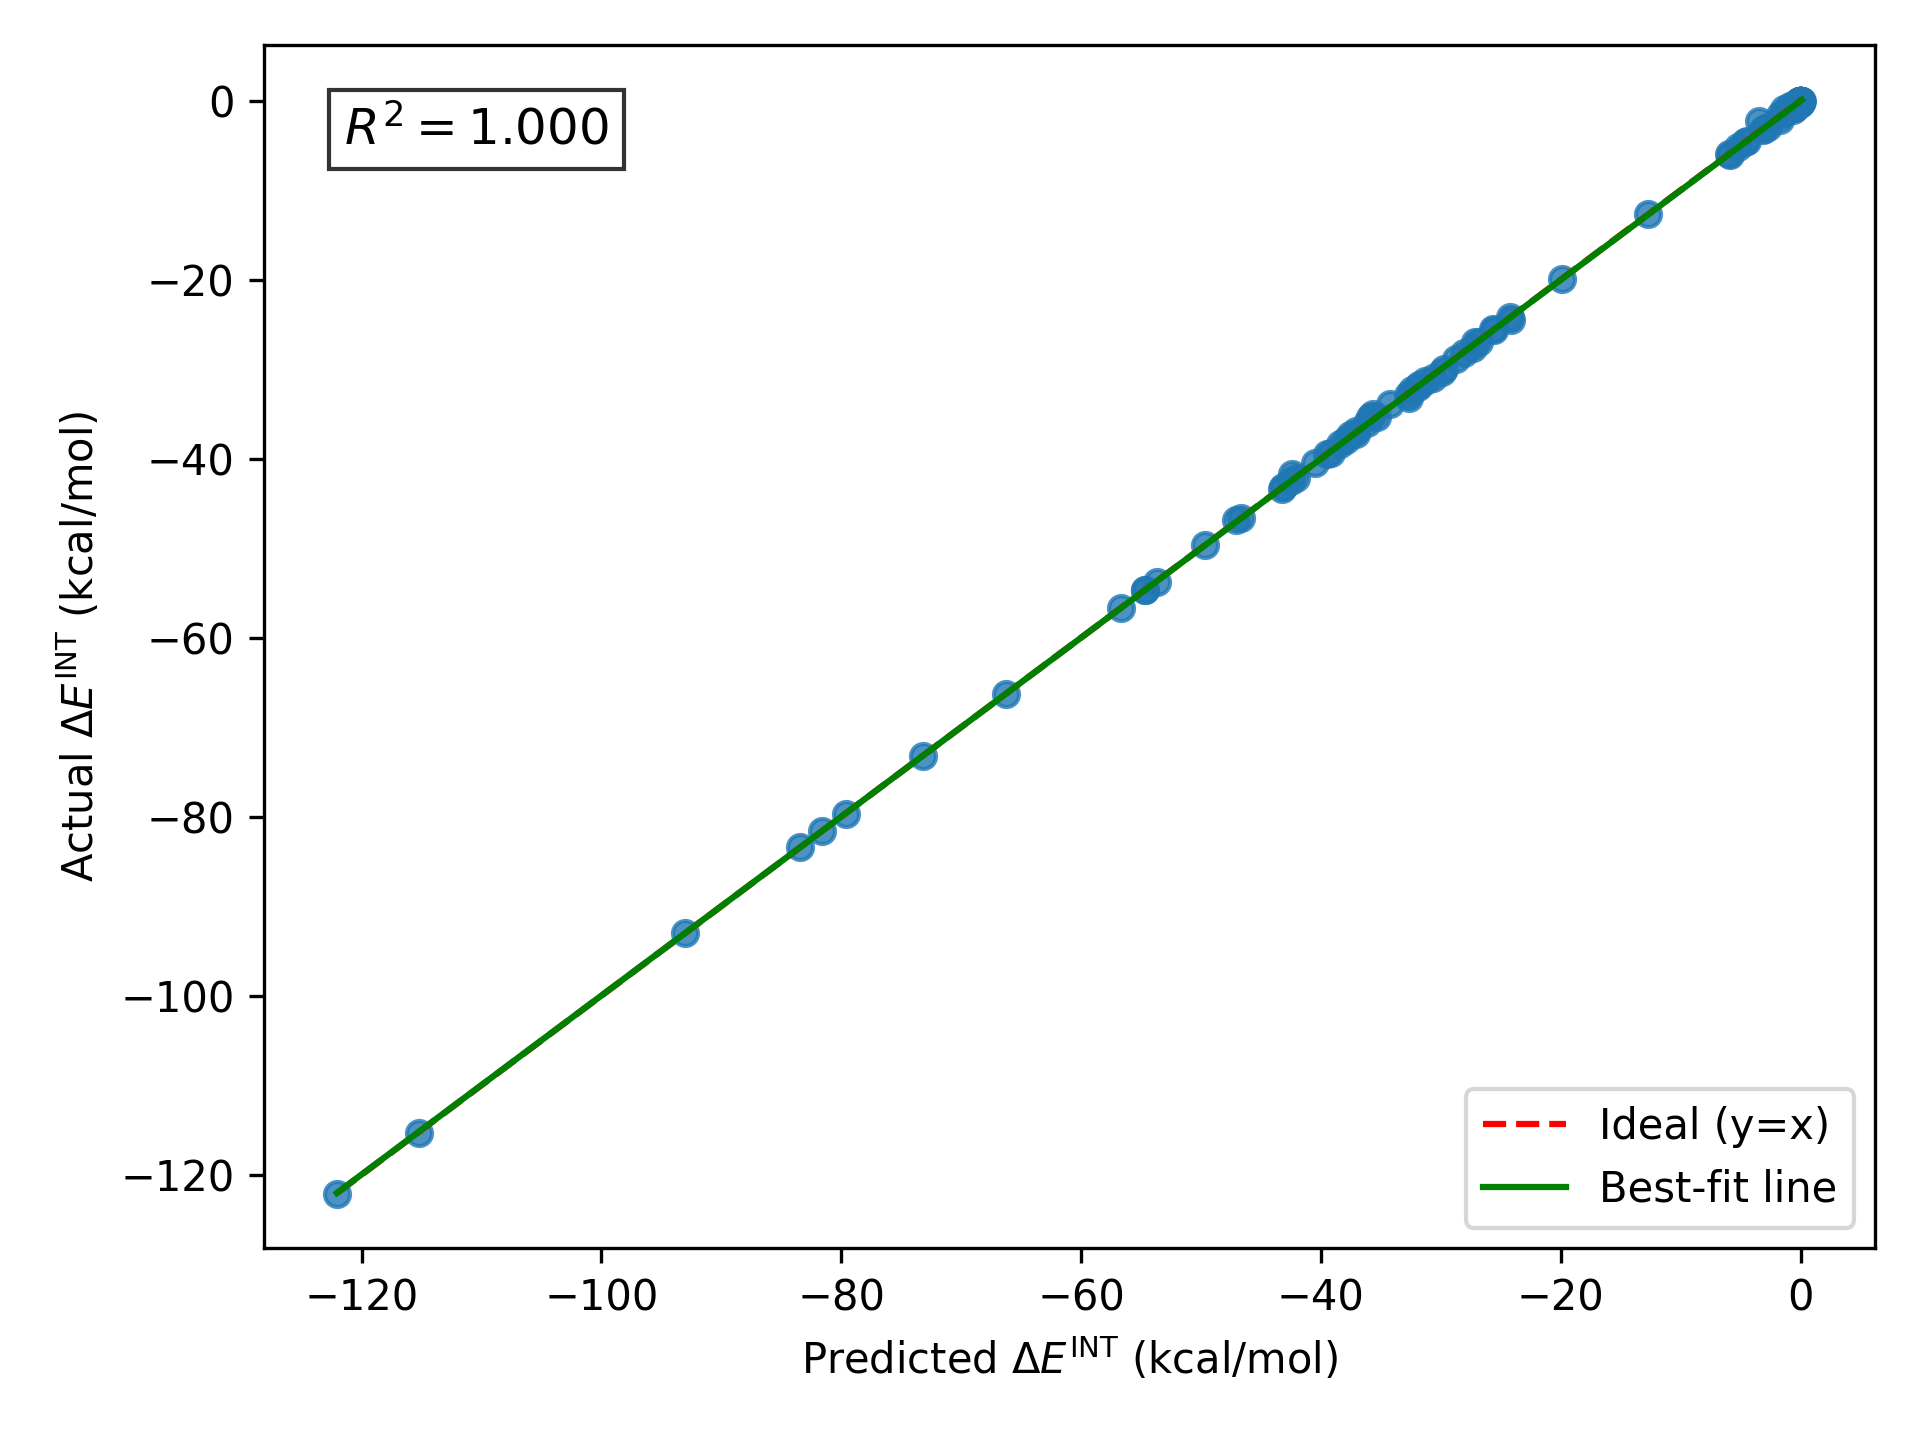
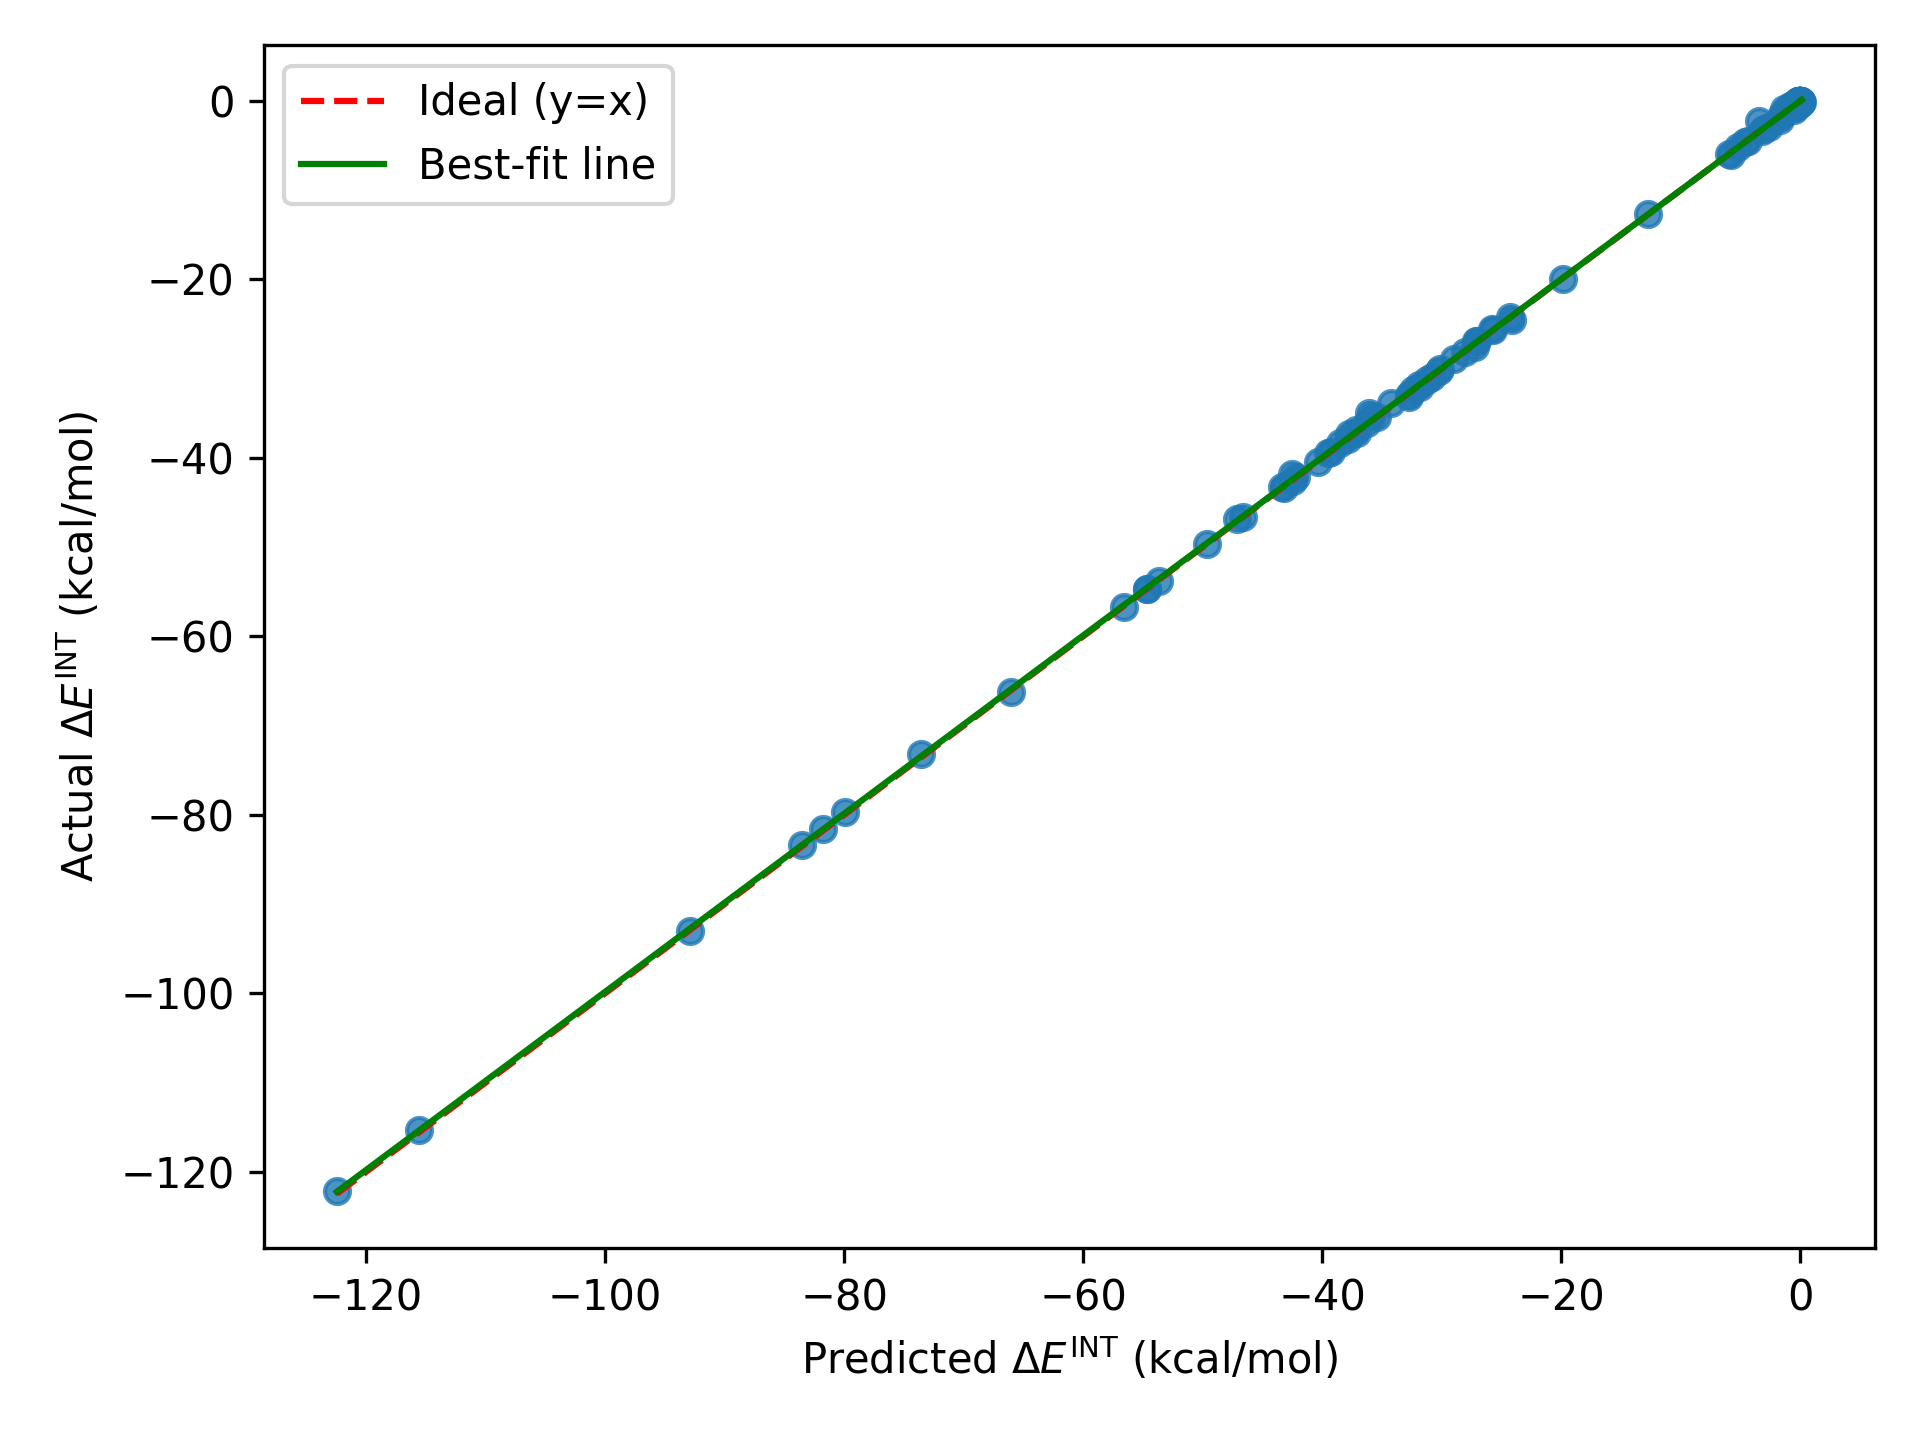
remove r2 from test results and make errors kJ/mol

diff --git a/test.py b/test.py
@@ -85,35 +85,26 @@ def plot_results(ies_pred: np.ndarray, ies: np.ndarray):
     #plt.title('Predicted vs. Actual Interaction Energy')
     plt.legend()
 
-    r2 = r2_score(ies, ies_pred)
-    plt.text(
-        0.05, 0.95, f'$R^2 = {r2:.3f}$',
-        transform=plt.gca().transAxes,
-        fontsize=12,
-        verticalalignment='top',
-        bbox=dict(facecolor='white', alpha=0.8, edgecolor='black', boxstyle='square,pad=0.3')
-    )
-
     plt.tight_layout()
     plt.savefig('test_results.png', dpi=300)
     plt.close()
 
 def plot_errors(ies_pred: np.ndarray, ies: np.ndarray):
-    errors = ies_pred - ies
+    errors = (ies_pred - ies) * 4.184  # convert errors to kJ/mol
     
     # Bins should be every 0.2 kcal/mol 
     bin_size = 0.2 
     bin_edges = np.arange(np.floor(np.min(errors) / bin_size) * bin_size, np.ceil(np.max(errors) / bin_size) * bin_size + bin_size, bin_size)
 
     plt.hist(errors, bins=bin_edges, edgecolor='black', density=False)
-    plt.xlabel('Residual errors (kcal/mol)')
+    plt.xlabel('Error residuals (kJ/mol)')
     plt.xlim(np.floor(np.min(errors)), np.ceil(np.max(errors)) + bin_size)
     plt.xticks(np.arange(np.floor(np.min(errors)), np.ceil(np.max(errors))+1, 1))
     plt.grid(which='major', linewidth=1.0, alpha=0.5)
     plt.minorticks_on()
     plt.grid(which='minor', linewidth=0.5, linestyle=':',  alpha=0.5)
     plt.ylabel('Frequency')
-    plt.title('Histogram of Test Residual Errors')
+    plt.title('Histogram of Test Error Residuals')
     plt.savefig('test_errors.png', dpi=300)
     plt.close()
 
